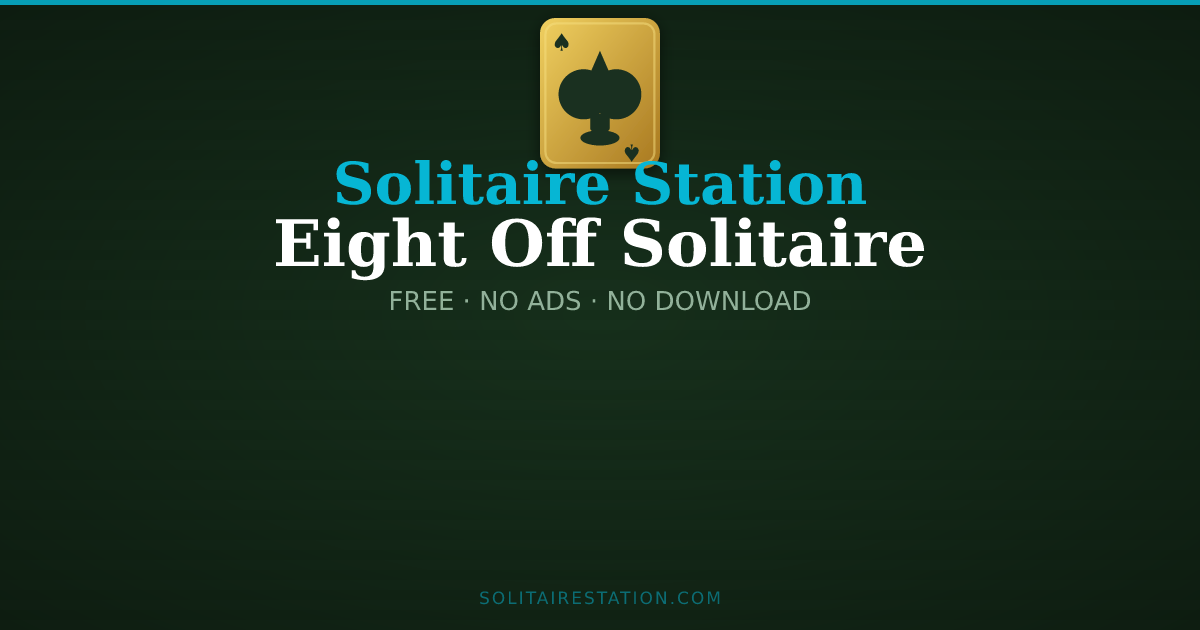
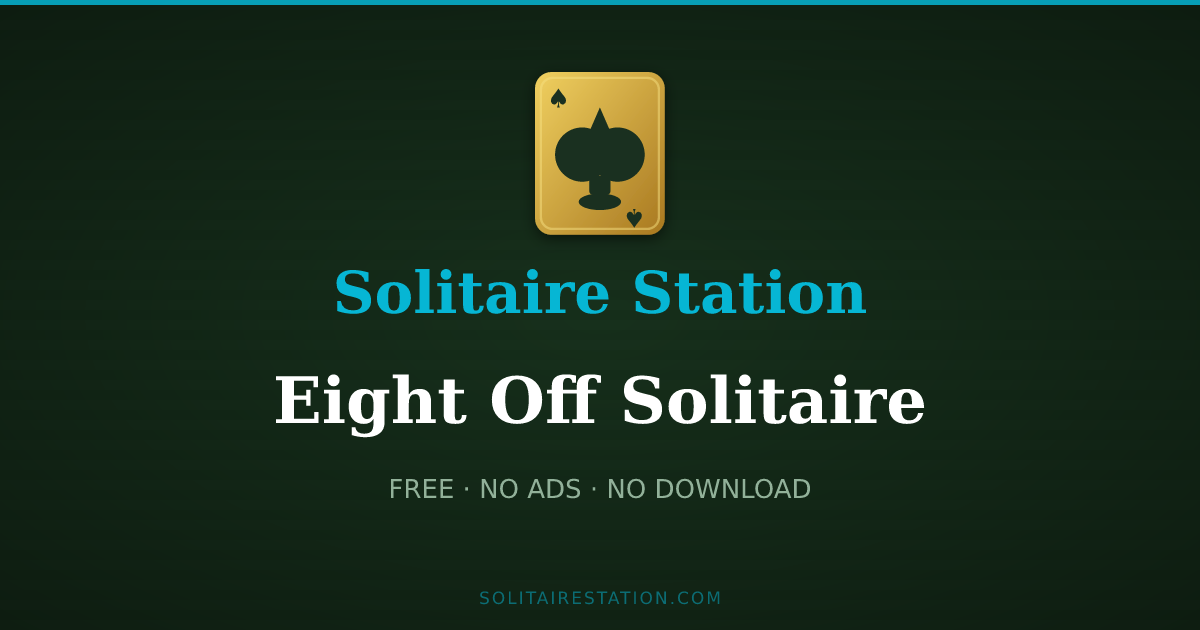
Spread OG content across full image height — no empty band, bump to v=5

diff --git a/src/routes/__root.tsx b/src/routes/__root.tsx
@@ -107,7 +107,7 @@ export const Route = createRootRouteWithContext<{ queryClient: QueryClient }>()(
       { property: "og:description", content: "16 free solitaire games with customizable card backs and face styles — hints, undo, and auto-save included. No download or sign-up. Works on any device." },
       { property: "og:site_name", content: "Solitaire Station" },
       { property: "og:locale", content: "en_US" },
-      { property: "og:image", content: `${SITE_URL}/og/klondike.png?v=4?v=2` },
+      { property: "og:image", content: `${SITE_URL}/og/klondike.png?v=5?v=2` },
       { property: "og:image:width", content: "1200" },
       { property: "og:image:height", content: "630" },
       { property: "og:image:alt", content: "Solitaire Station — Play Free Online Solitaire Instantly" },
@@ -116,7 +116,7 @@ export const Route = createRootRouteWithContext<{ queryClient: QueryClient }>()(
       { name: "twitter:url", content: `${SITE_URL}/` },
       { name: "twitter:title", content: "Solitaire Station — Play Free Online Solitaire Instantly" },
       { name: "twitter:description", content: "16 free solitaire games — customizable card designs, hints, and auto-save. Klondike, Spider, FreeCell, Golf, Mahjong, and more. No download." },
-      { name: "twitter:image", content: `${SITE_URL}/og/klondike.png?v=4?v=2` },
+      { name: "twitter:image", content: `${SITE_URL}/og/klondike.png?v=5?v=2` },
       // PWA / mobile
       { name: "theme-color", content: "#b8901e" },
       { name: "mobile-web-app-capable", content: "yes" },

diff --git a/src/routes/tripeaks.tsx b/src/routes/tripeaks.tsx
@@ -16,14 +16,14 @@ export const Route = createFileRoute("/tripeaks")({
       { property: "og:description", content: "Play free TriPeaks solitaire at Solitaire Station — clear three peaks by chaining cards one rank apart. Build streaks for bonus points. No download or sign-up." },
       { property: "og:type", content: "website" },
       { property: "og:url", content: `${SITE_URL}/tripeaks` },
-      { property: "og:image", content: `${SITE_URL}/og/tripeaks.png?v=4` },
+      { property: "og:image", content: `${SITE_URL}/og/tripeaks.png?v=5` },
       { property: "og:image:width", content: "1200" },
       { property: "og:image:height", content: "630" },
       { property: "og:image:alt", content: "Solitaire Station — Free TriPeaks Solitaire" },
       { name: "twitter:card", content: "summary_large_image" },
       { name: "twitter:title", content: "Solitaire Station — Free TriPeaks Solitaire" },
       { name: "twitter:description", content: "Play free TriPeaks solitaire at Solitaire Station — chain cards one rank apart to clear three peaks. No download or sign-up." },
-      { name: "twitter:image", content: `${SITE_URL}/og/tripeaks.png?v=4` },
+      { name: "twitter:image", content: `${SITE_URL}/og/tripeaks.png?v=5` },
     ],
     links: [
       { rel: "canonical", href: `${SITE_URL}/tripeaks` },

diff --git a/src/routes/freecell.tsx b/src/routes/freecell.tsx
@@ -16,14 +16,14 @@ export const Route = createFileRoute("/freecell")({
       { property: "og:description", content: "Play free FreeCell solitaire at Solitaire Station — almost every deal is solvable. Use 4 free cells to plan your moves. Hints, undo, and auto-save." },
       { property: "og:type", content: "website" },
       { property: "og:url", content: `${SITE_URL}/freecell` },
-      { property: "og:image", content: `${SITE_URL}/og/freecell.png?v=4` },
+      { property: "og:image", content: `${SITE_URL}/og/freecell.png?v=5` },
       { property: "og:image:width", content: "1200" },
       { property: "og:image:height", content: "630" },
       { property: "og:image:alt", content: "Solitaire Station — Free FreeCell Solitaire" },
       { name: "twitter:card", content: "summary_large_image" },
       { name: "twitter:title", content: "Solitaire Station — Free FreeCell Solitaire" },
       { name: "twitter:description", content: "Play free FreeCell solitaire at Solitaire Station — almost every deal is solvable. 4 free cells, hints, undo. No download or sign-up." },
-      { name: "twitter:image", content: `${SITE_URL}/og/freecell.png?v=4` },
+      { name: "twitter:image", content: `${SITE_URL}/og/freecell.png?v=5` },
     ],
     links: [
       { rel: "canonical", href: `${SITE_URL}/freecell` },

diff --git a/src/routes/mahjong.tsx b/src/routes/mahjong.tsx
@@ -16,14 +16,14 @@ export const Route = createFileRoute("/mahjong")({
       { property: "og:description", content: "Play free Mahjong solitaire at Solitaire Station — match identical free tiles to clear all 144 from the board. Hints and auto-save. No download or sign-up." },
       { property: "og:type", content: "website" },
       { property: "og:url", content: `${SITE_URL}/mahjong` },
-      { property: "og:image", content: `${SITE_URL}/og/mahjong.png?v=4` },
+      { property: "og:image", content: `${SITE_URL}/og/mahjong.png?v=5` },
       { property: "og:image:width", content: "1200" },
       { property: "og:image:height", content: "630" },
       { property: "og:image:alt", content: "Solitaire Station — Free Mahjong Solitaire" },
       { name: "twitter:card", content: "summary_large_image" },
       { name: "twitter:title", content: "Solitaire Station — Free Mahjong Solitaire" },
       { name: "twitter:description", content: "Play free Mahjong solitaire at Solitaire Station — match identical free tiles to clear all 144. No download or sign-up." },
-      { name: "twitter:image", content: `${SITE_URL}/og/mahjong.png?v=4` },
+      { name: "twitter:image", content: `${SITE_URL}/og/mahjong.png?v=5` },
     ],
     links: [
       { rel: "canonical", href: `${SITE_URL}/mahjong` },

diff --git a/src/routes/forty-thieves.tsx b/src/routes/forty-thieves.tsx
@@ -16,14 +16,14 @@ export const Route = createFileRoute("/forty-thieves")({
       { property: "og:description", content: "Play free Forty Thieves solitaire — two decks, 10 columns, same-suit building. Hints, undo, and auto-save." },
       { property: "og:type", content: "website" },
       { property: "og:url", content: `${SITE_URL}/forty-thieves` },
-      { property: "og:image", content: `${SITE_URL}/og/forty-thieves.png?v=4` },
+      { property: "og:image", content: `${SITE_URL}/og/forty-thieves.png?v=5` },
       { property: "og:image:width", content: "1200" },
       { property: "og:image:height", content: "630" },
       { property: "og:image:alt", content: "Solitaire Station — Free Forty Thieves Solitaire" },
       { name: "twitter:card", content: "summary_large_image" },
       { name: "twitter:title", content: "Solitaire Station — Free Forty Thieves Solitaire" },
       { name: "twitter:description", content: "Two-deck solitaire with same-suit tableau building. One card moves at a time. Can you beat all 40 thieves?" },
-      { name: "twitter:image", content: `${SITE_URL}/og/forty-thieves.png?v=4` },
+      { name: "twitter:image", content: `${SITE_URL}/og/forty-thieves.png?v=5` },
     ],
     links: [
       { rel: "canonical", href: `${SITE_URL}/forty-thieves` },

diff --git a/src/routes/pyramid.tsx b/src/routes/pyramid.tsx
@@ -16,14 +16,14 @@ export const Route = createFileRoute("/pyramid")({
       { property: "og:description", content: "Play free Pyramid solitaire at Solitaire Station — pair cards that sum to 13 to clear all 28 cards. Kings remove alone. Hints and auto-save." },
       { property: "og:type", content: "website" },
       { property: "og:url", content: `${SITE_URL}/pyramid` },
-      { property: "og:image", content: `${SITE_URL}/og/pyramid.png?v=4` },
+      { property: "og:image", content: `${SITE_URL}/og/pyramid.png?v=5` },
       { property: "og:image:width", content: "1200" },
       { property: "og:image:height", content: "630" },
       { property: "og:image:alt", content: "Solitaire Station — Free Pyramid Solitaire" },
       { name: "twitter:card", content: "summary_large_image" },
       { name: "twitter:title", content: "Solitaire Station — Free Pyramid Solitaire" },
       { name: "twitter:description", content: "Play free Pyramid solitaire at Solitaire Station — pair cards that sum to 13 to clear the pyramid. No download or sign-up." },
-      { name: "twitter:image", content: `${SITE_URL}/og/pyramid.png?v=4` },
+      { name: "twitter:image", content: `${SITE_URL}/og/pyramid.png?v=5` },
     ],
     links: [
       { rel: "canonical", href: `${SITE_URL}/pyramid` },

diff --git a/src/routes/addiction.tsx b/src/routes/addiction.tsx
@@ -16,14 +16,14 @@ export const Route = createFileRoute("/addiction")({
       { property: "og:description", content: "Arrange cards in 4 rows from 2 to King in the same suit using gaps as spaces. Up to 3 reshuffles. Hints, undo, and auto-save." },
       { property: "og:type", content: "website" },
       { property: "og:url", content: `${SITE_URL}/addiction` },
-      { property: "og:image", content: `${SITE_URL}/og/addiction.png?v=4` },
+      { property: "og:image", content: `${SITE_URL}/og/addiction.png?v=5` },
       { property: "og:image:width", content: "1200" },
       { property: "og:image:height", content: "630" },
       { property: "og:image:alt", content: "Solitaire Station — Free Addiction Solitaire" },
       { name: "twitter:card", content: "summary_large_image" },
       { name: "twitter:title", content: "Solitaire Station — Free Addiction Solitaire" },
       { name: "twitter:description", content: "Slide cards into gaps to build same-suit rows from 2 to King. Highly addictive puzzle solitaire with up to 3 reshuffles." },
-      { name: "twitter:image", content: `${SITE_URL}/og/addiction.png?v=4` },
+      { name: "twitter:image", content: `${SITE_URL}/og/addiction.png?v=5` },
     ],
     links: [
       { rel: "canonical", href: `${SITE_URL}/addiction` },

diff --git a/src/routes/bakers-game.tsx b/src/routes/bakers-game.tsx
@@ -16,14 +16,14 @@ export const Route = createFileRoute("/bakers-game")({
       { property: "og:description", content: "Play free Baker's Game solitaire at Solitaire Station — FreeCell with same-suit stacking for a tougher strategic challenge." },
       { property: "og:type", content: "website" },
       { property: "og:url", content: `${SITE_URL}/bakers-game` },
-      { property: "og:image", content: `${SITE_URL}/og/bakers-game.png?v=4` },
+      { property: "og:image", content: `${SITE_URL}/og/bakers-game.png?v=5` },
       { property: "og:image:width", content: "1200" },
       { property: "og:image:height", content: "630" },
       { property: "og:image:alt", content: "Solitaire Station — Free Baker's Game Solitaire" },
       { name: "twitter:card", content: "summary_large_image" },
       { name: "twitter:title", content: "Solitaire Station — Free Baker's Game Solitaire" },
       { name: "twitter:description", content: "Play free Baker's Game — FreeCell with same-suit stacking, hints, undo. No download or sign-up." },
-      { name: "twitter:image", content: `${SITE_URL}/og/bakers-game.png?v=4` },
+      { name: "twitter:image", content: `${SITE_URL}/og/bakers-game.png?v=5` },
     ],
     links: [
       { rel: "canonical", href: `${SITE_URL}/bakers-game` },

diff --git a/src/routes/scorpion.tsx b/src/routes/scorpion.tsx
@@ -16,14 +16,14 @@ export const Route = createFileRoute("/scorpion")({
       { property: "og:description", content: "Play free Scorpion Solitaire — move face-up groups onto same-suit sequences, complete four K-to-A runs to win. No sign-up needed." },
       { property: "og:type", content: "website" },
       { property: "og:url", content: `${SITE_URL}/scorpion` },
-      { property: "og:image", content: `${SITE_URL}/og/scorpion.png?v=4` },
+      { property: "og:image", content: `${SITE_URL}/og/scorpion.png?v=5` },
       { property: "og:image:width", content: "1200" },
       { property: "og:image:height", content: "630" },
       { property: "og:image:alt", content: "Solitaire Station — Free Scorpion Solitaire" },
       { name: "twitter:card", content: "summary_large_image" },
       { name: "twitter:title", content: "Solitaire Station — Free Scorpion Solitaire" },
       { name: "twitter:description", content: "Play free Scorpion Solitaire — build four complete same-suit sequences from King to Ace. Hints, undo, auto-save." },
-      { name: "twitter:image", content: `${SITE_URL}/og/scorpion.png?v=4` },
+      { name: "twitter:image", content: `${SITE_URL}/og/scorpion.png?v=5` },
     ],
     links: [
       { rel: "canonical", href: `${SITE_URL}/scorpion` },

diff --git a/src/routes/clock.tsx b/src/routes/clock.tsx
@@ -16,14 +16,14 @@ export const Route = createFileRoute("/clock")({
       { property: "og:description", content: "Play free Clock Patience at Solitaire Station — a self-playing solitaire where cards reveal themselves around a clock face. Auto Play included." },
       { property: "og:type", content: "website" },
       { property: "og:url", content: `${SITE_URL}/clock` },
-      { property: "og:image", content: `${SITE_URL}/og/clock.png?v=4` },
+      { property: "og:image", content: `${SITE_URL}/og/clock.png?v=5` },
       { property: "og:image:width", content: "1200" },
       { property: "og:image:height", content: "630" },
       { property: "og:image:alt", content: "Solitaire Station — Free Clock Patience" },
       { name: "twitter:card", content: "summary_large_image" },
       { name: "twitter:title", content: "Solitaire Station — Free Clock Patience" },
       { name: "twitter:description", content: "Watch cards deal themselves around a clock face in this mesmerizing self-playing solitaire. Will all Kings be the last to fall?" },
-      { name: "twitter:image", content: `${SITE_URL}/og/clock.png?v=4` },
+      { name: "twitter:image", content: `${SITE_URL}/og/clock.png?v=5` },
     ],
     links: [
       { rel: "canonical", href: `${SITE_URL}/clock` },

diff --git a/src/routes/eight-off.tsx b/src/routes/eight-off.tsx
@@ -16,14 +16,14 @@ export const Route = createFileRoute("/eight-off")({
       { property: "og:description", content: "Play free Eight Off solitaire at Solitaire Station — 8 free cells and same-suit stacking make this a unique strategic challenge." },
       { property: "og:type", content: "website" },
       { property: "og:url", content: `${SITE_URL}/eight-off` },
-      { property: "og:image", content: `${SITE_URL}/og/eight-off.png?v=4` },
+      { property: "og:image", content: `${SITE_URL}/og/eight-off.png?v=5` },
       { property: "og:image:width", content: "1200" },
       { property: "og:image:height", content: "630" },
       { property: "og:image:alt", content: "Solitaire Station — Free Eight Off Solitaire" },
       { name: "twitter:card", content: "summary_large_image" },
       { name: "twitter:title", content: "Solitaire Station — Free Eight Off Solitaire" },
       { name: "twitter:description", content: "Play free Eight Off solitaire — 8 free cells, same-suit stacking, hints, undo. No download or sign-up." },
-      { name: "twitter:image", content: `${SITE_URL}/og/eight-off.png?v=4` },
+      { name: "twitter:image", content: `${SITE_URL}/og/eight-off.png?v=5` },
     ],
     links: [
       { rel: "canonical", href: `${SITE_URL}/eight-off` },

diff --git a/src/routes/golf.tsx b/src/routes/golf.tsx
@@ -16,14 +16,14 @@ export const Route = createFileRoute("/golf")({
       { property: "og:description", content: "Play free Golf solitaire at Solitaire Station — clear all 35 tableau cards by building on the waste pile ±1. Hints and auto-save." },
       { property: "og:type", content: "website" },
       { property: "og:url", content: `${SITE_URL}/golf` },
-      { property: "og:image", content: `${SITE_URL}/og/golf.png?v=4` },
+      { property: "og:image", content: `${SITE_URL}/og/golf.png?v=5` },
       { property: "og:image:width", content: "1200" },
       { property: "og:image:height", content: "630" },
       { property: "og:image:alt", content: "Solitaire Station — Free Golf Solitaire" },
       { name: "twitter:card", content: "summary_large_image" },
       { name: "twitter:title", content: "Solitaire Station — Free Golf Solitaire" },
       { name: "twitter:description", content: "Play free Golf solitaire at Solitaire Station — clear all tableau cards by playing ±1 onto the waste pile. No download or sign-up." },
-      { name: "twitter:image", content: `${SITE_URL}/og/golf.png?v=4` },
+      { name: "twitter:image", content: `${SITE_URL}/og/golf.png?v=5` },
     ],
     links: [
       { rel: "canonical", href: `${SITE_URL}/golf` },
